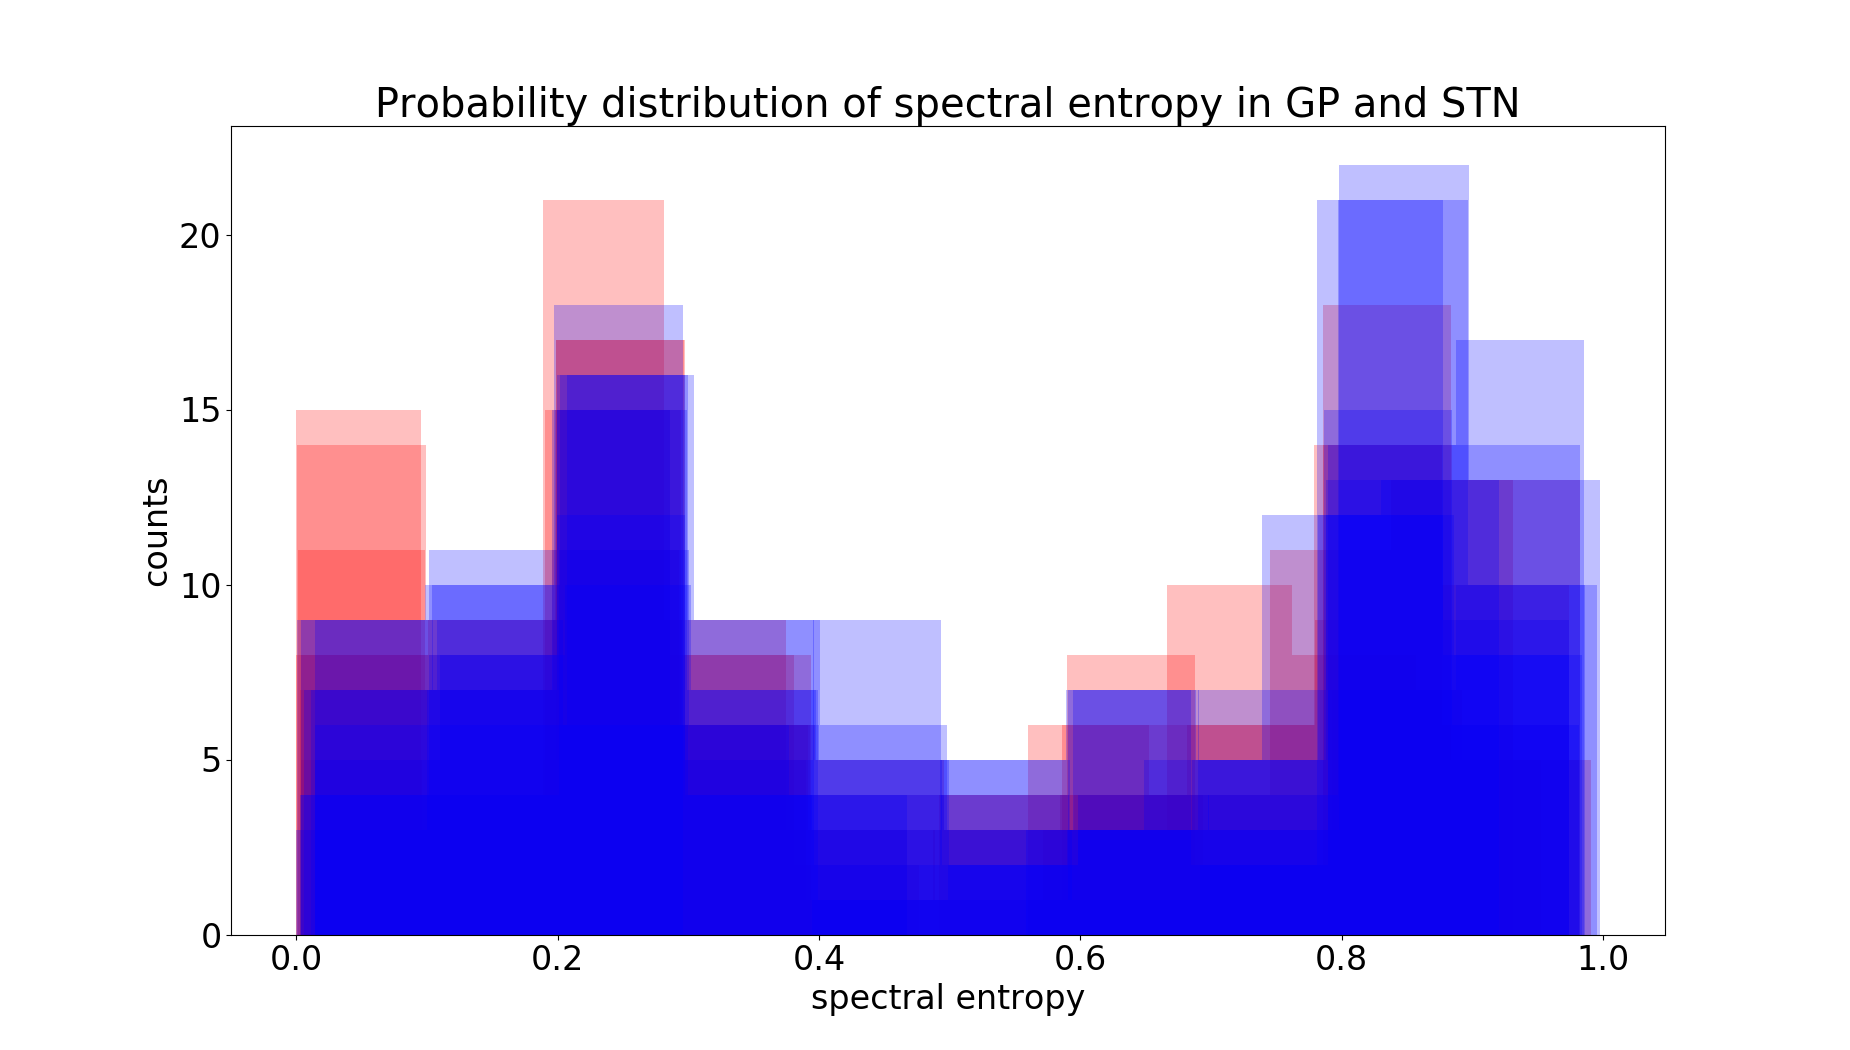
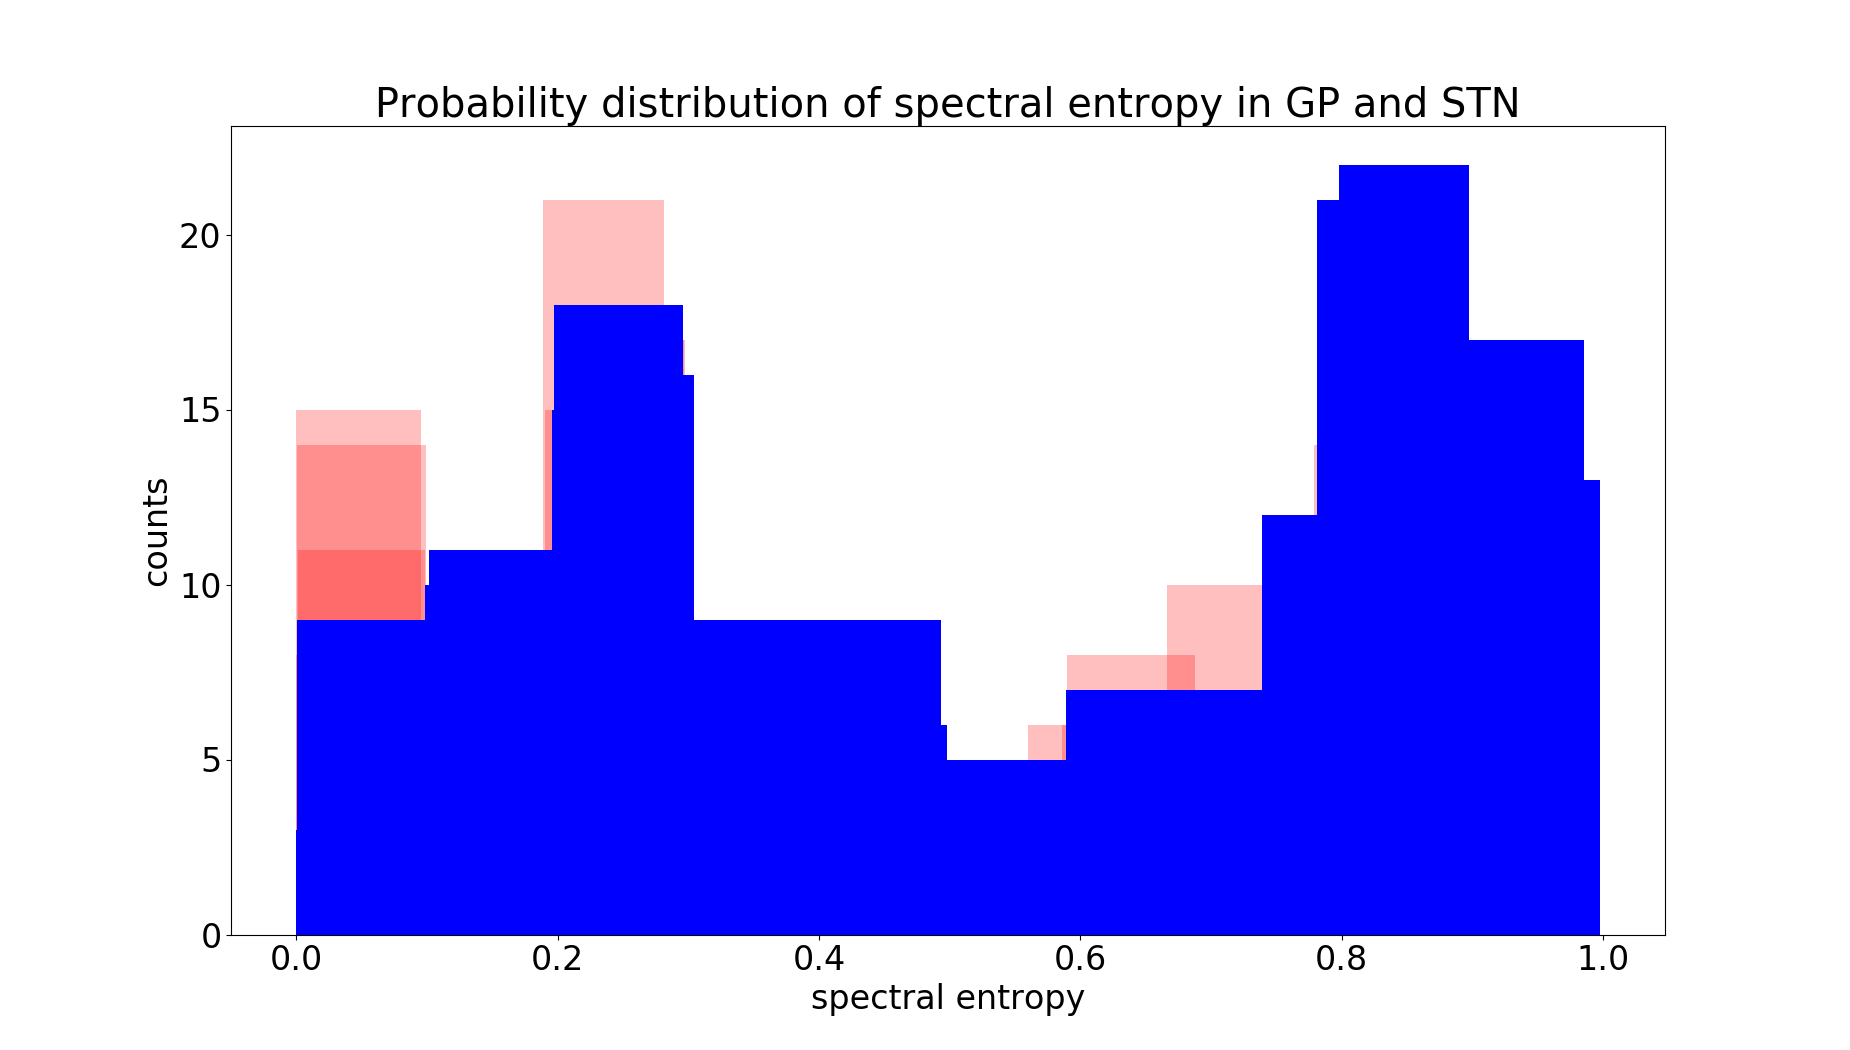
new spiking images

Changed region(s): [[0.1541, 0.1524, 0.8627, 0.9143]]

diff --git a/code/model/spikes.py b/code/model/spikes.py
@@ -299,11 +299,11 @@ def getInfoAllSpikes():
 	for i in range(0,len(sr_gp)):
 		x_gp = (np.amax(sr_gp[i]) - np.amin(sr_gp[i])) / 5
 		n_gp = math.ceil(x_gp) 
-		plt.hist(sr_gp[i], bins = n_gp, alpha = 0.5,color='r')
+		plt.hist(sr_gp[i], bins = n_gp,color='r')
 	for i in range(0,len(sr_stn)):
 		x_stn = (np.amax(sr_stn[i]) - np.amin(sr_stn[i])) / 5
 		n_stn = math.ceil(x_stn)
-		plt.hist(sr_stn[i], bins = n_stn, alpha = 0.5,color='b')
+		plt.hist(sr_stn[i], bins = n_stn,color='b')
 	plt.title("Rate function probability distribution")
 	plt.xlabel("Spiking rate")
 	plt.ylabel("Counts")
@@ -387,14 +387,14 @@ def getInfoAllSpikes():
 
 	# of channels in each region
 	for i in range(0,len(se_gp)):
-		plt.hist(se_gp[i], alpha=0.25, color = 'r')
+		plt.hist(se_gp[i], color = 'r')
 	plt.title("Probability distribution of spectral entropy in GP")
 	plt.xlabel("spectral entropy")
 	plt.ylabel("counts")
 	plt.savefig("spikes/measurements/comp_gp_stn/hist_gp.png")
 	plt.clf()
 	for i in range(0,len(se_stn)):
-		plt.hist(se_stn[i], alpha=0.25, color='b')
+		plt.hist(se_stn[i], color='b')
 	plt.title("Probability distribution of spectral entropy in STN")
 	plt.xlabel("spectral entropy")
 	plt.ylabel("counts")
@@ -404,7 +404,7 @@ def getInfoAllSpikes():
 	for i in range(0,len(se_gp)):
 		plt.hist(se_gp[i], alpha=0.25, color='r')
 	for i in range(0,len(se_stn)):
-		plt.hist(se_stn[i], alpha=0.25, color='b')
+		plt.hist(se_stn[i], color='b')
 	plt.title("Probability distribution of spectral entropy in GP and STN")
 	plt.xlabel("spectral entropy")
 	plt.ylabel("counts")
